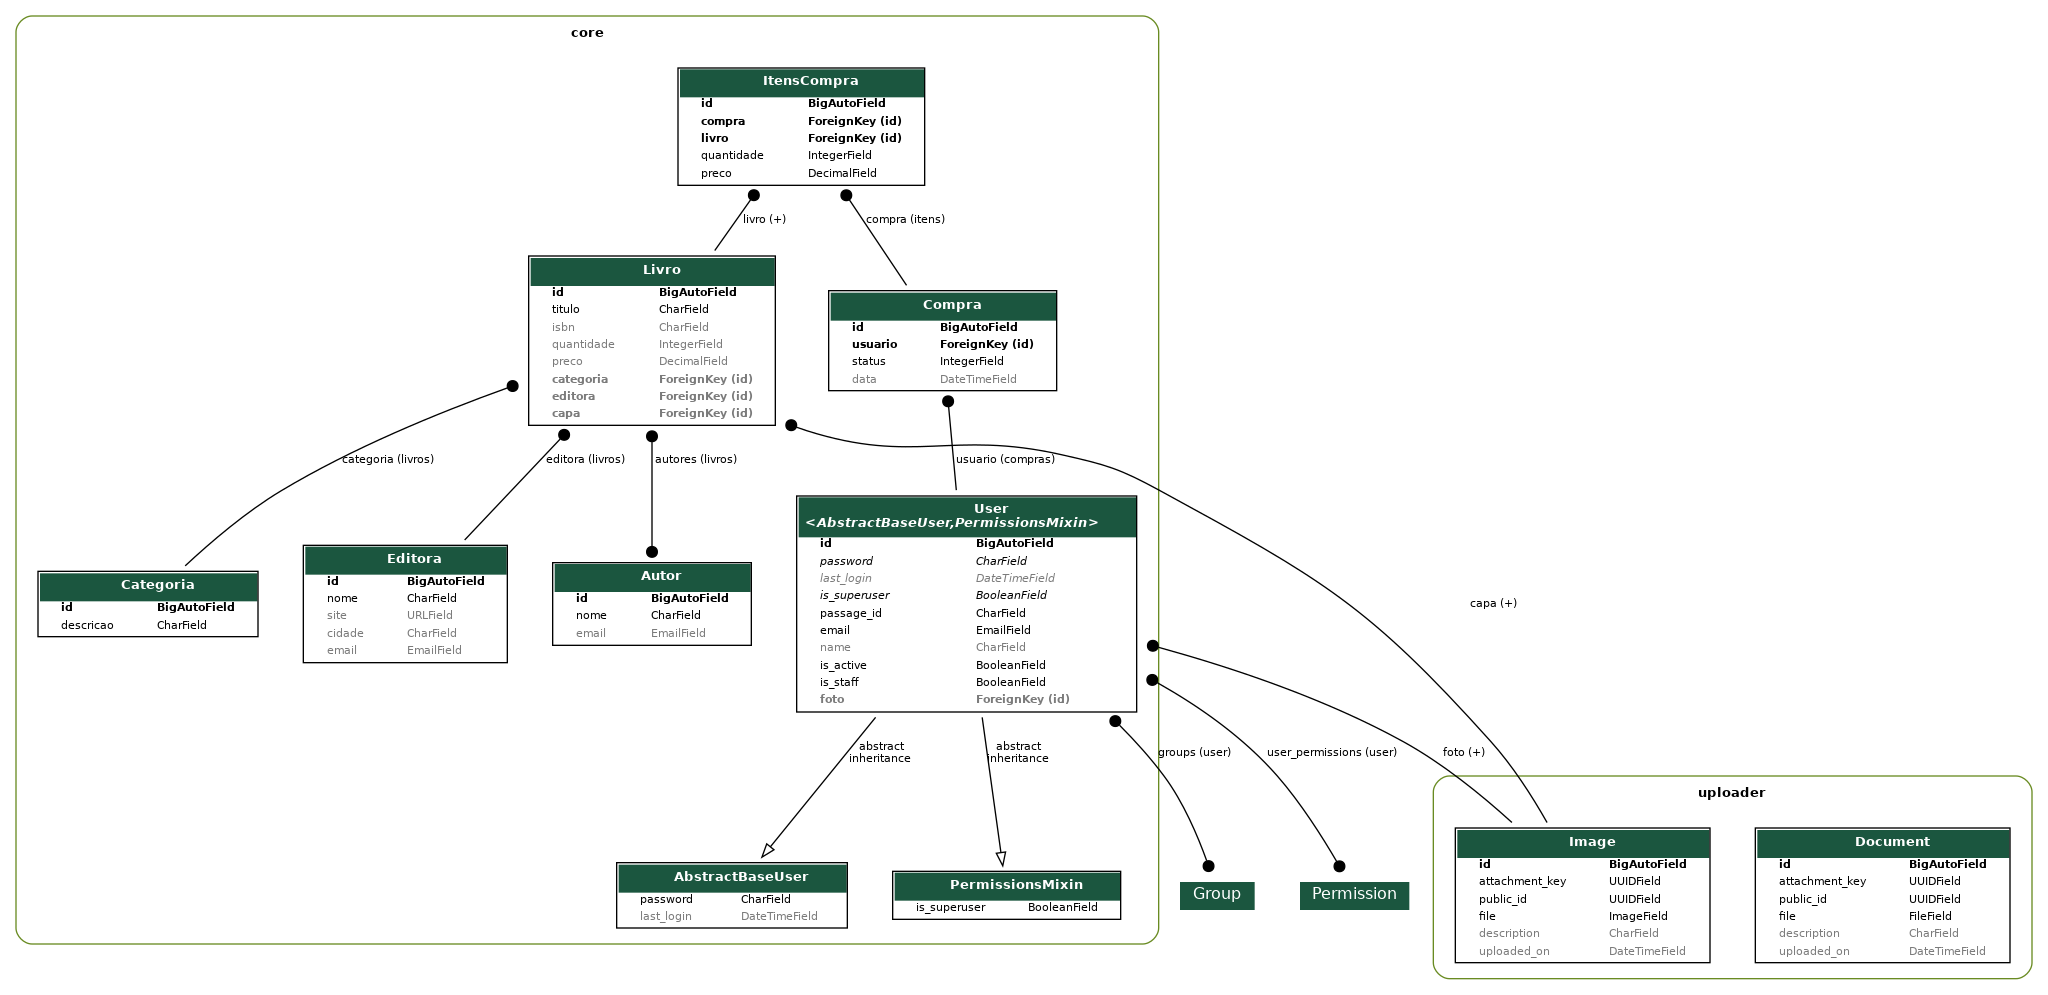
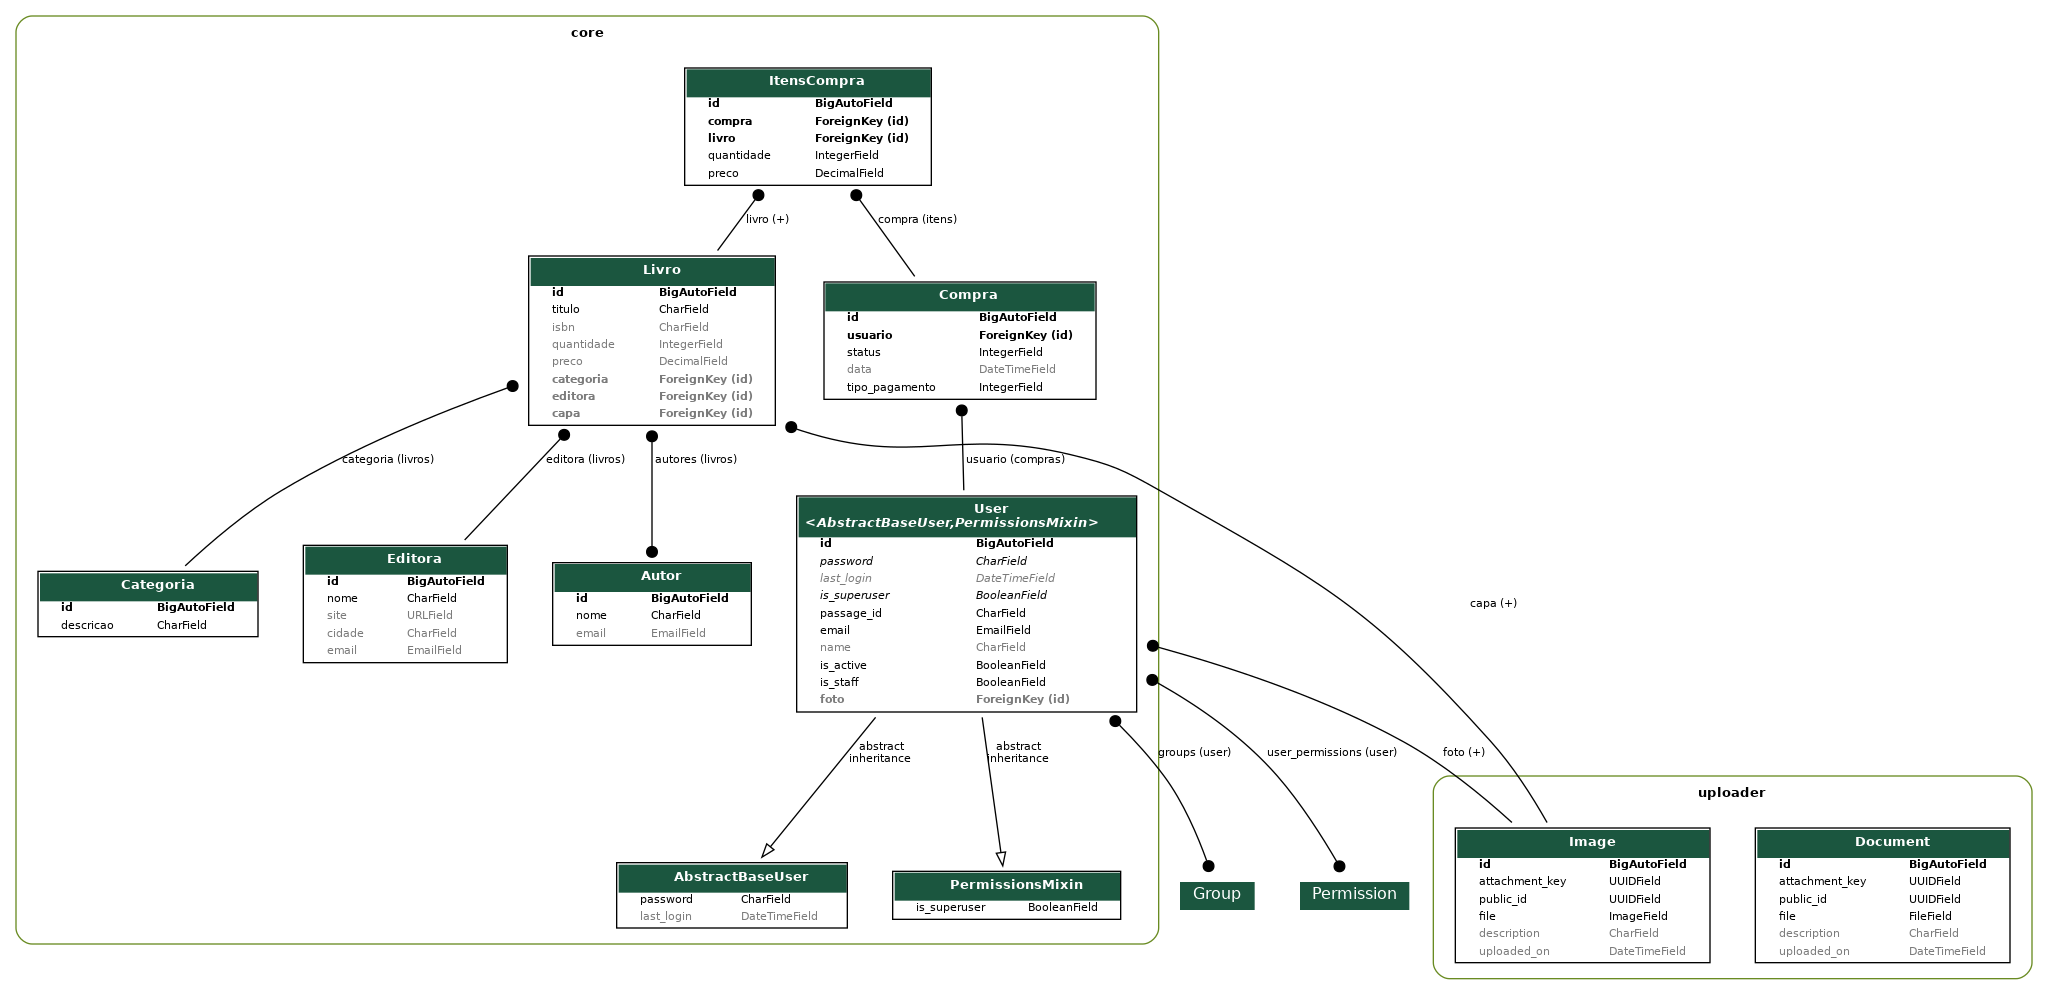
tipo_pagamento no serializer de Compra

diff --git a/core/migrations/0019_compra_tipo_pagamento.py b/core/migrations/0019_compra_tipo_pagamento.py
@@ -1,0 +1,29 @@
+# Generated by Django 5.1.3 on 2024-12-16 12:39
+
+from django.db import migrations, models
+
+
+class Migration(migrations.Migration):
+
+    dependencies = [
+        ("core", "0018_compra_data"),
+    ]
+
+    operations = [
+        migrations.AddField(
+            model_name="compra",
+            name="tipo_pagamento",
+            field=models.IntegerField(
+                choices=[
+                    (1, "Cartão de Crédito"),
+                    (2, "Cartão de Débito"),
+                    (3, "PIX"),
+                    (4, "Boleto"),
+                    (5, "Transferência Bancária"),
+                    (6, "Dinheiro"),
+                    (7, "Outro"),
+                ],
+                default=1,
+            ),
+        ),
+    ]

diff --git a/core/models/compra.py b/core/models/compra.py
@@ -26,12 +26,12 @@ class Compra(models.Model):
     data = models.DateTimeField(auto_now_add=True)
     tipo_pagamento = models.IntegerField(choices=TipoPagamento.choices, default=TipoPagamento.CARTAO_CREDITO)
    
+    @property
+    def total(self):
+        return sum(item.preco * item.quantidade for item in self.itens.all())
+    
 class ItensCompra(models.Model):
     compra = models.ForeignKey(Compra, on_delete=models.CASCADE, related_name="itens")
     livro = models.ForeignKey(Livro, on_delete=models.PROTECT, related_name="+")
     quantidade = models.IntegerField(default=1)
     preco = models.DecimalField(max_digits=10, decimal_places=2, default=0)
-
-    @property
-    def total(self):
-        return sum(item.preco * item.quantidade for item in self.itens.all())
